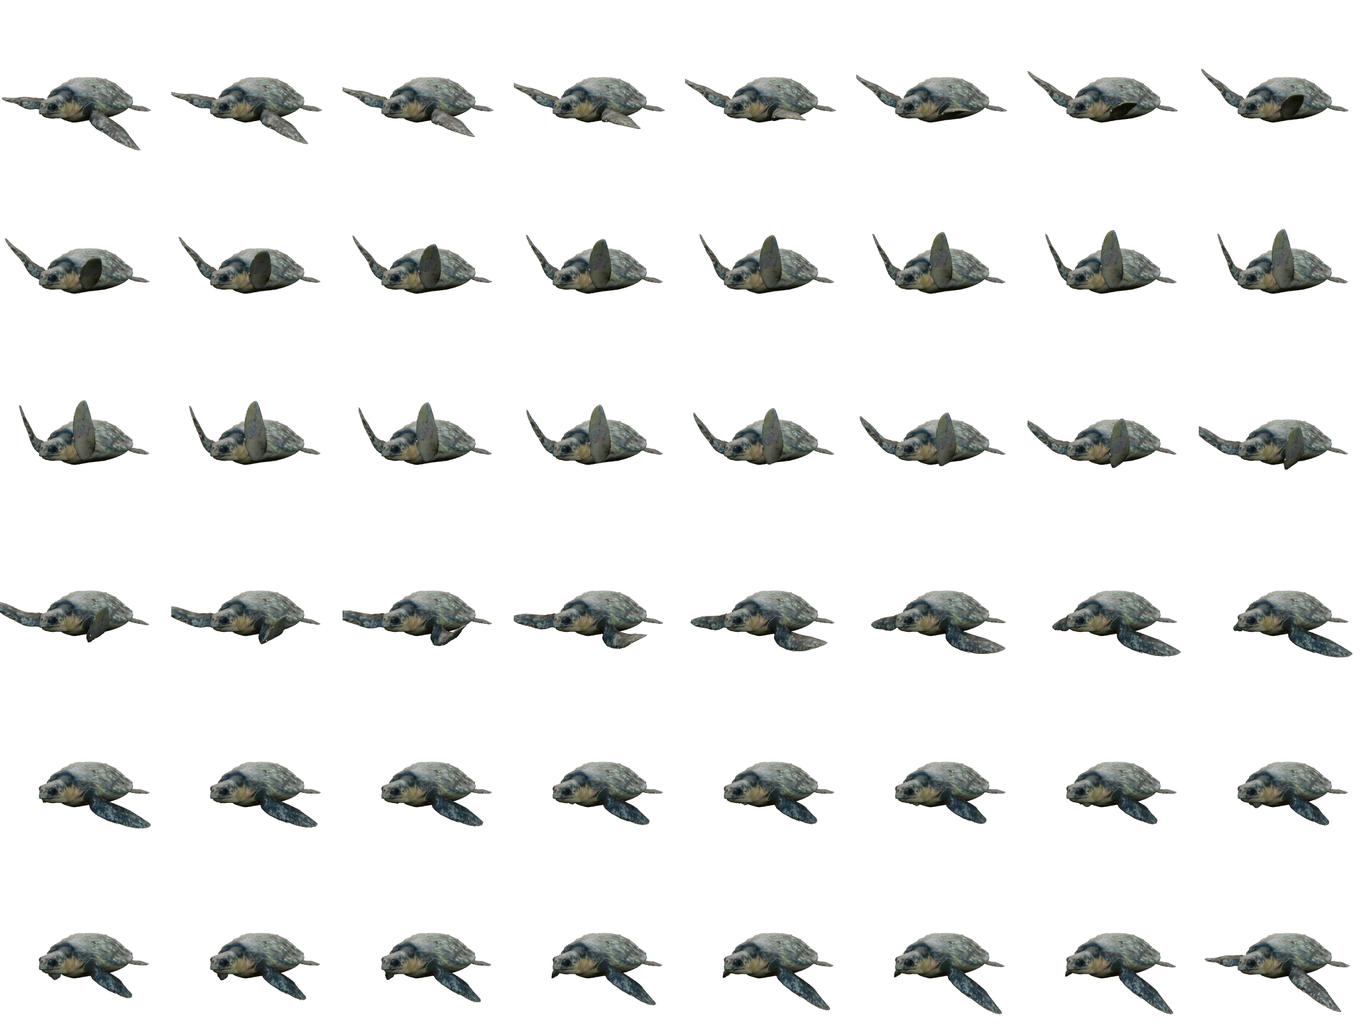
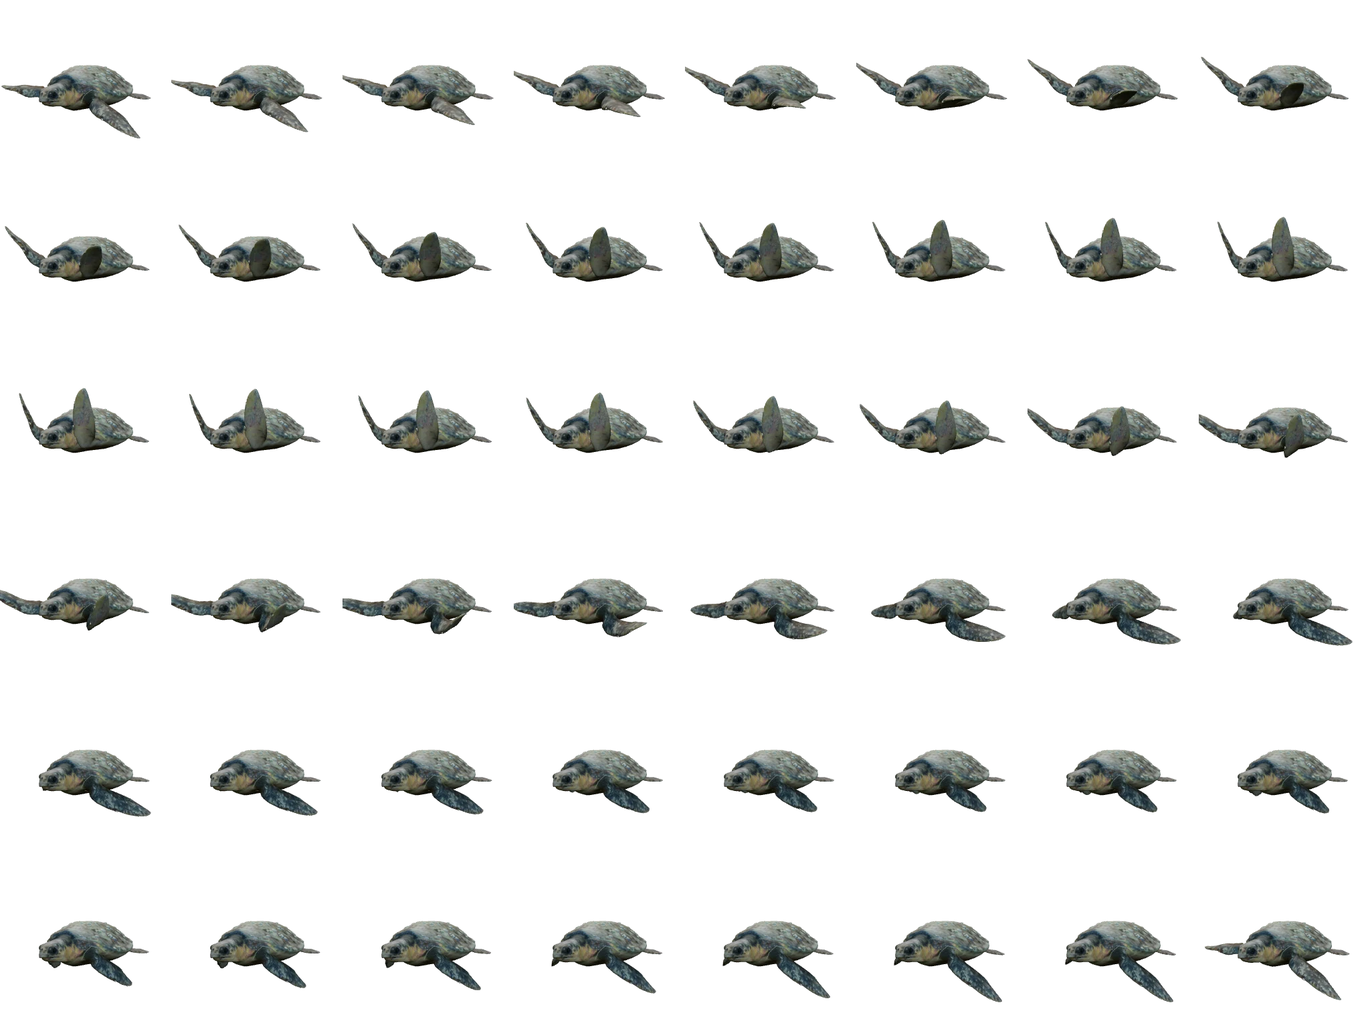
Add joystick, turtle turn action and ocean destination links

diff --git a/src/free-roam.js b/src/free-roam.js
@@ -1,3 +1,5 @@
+import {createJoystick} from './joystick.js';
+import {TURTLE_TURN_DURATION} from './turtle-turn.js';
 import * as T from 'three';
 import {OrbitControls} from 'three/addons/controls/OrbitControls.js';
 import {createRoamWorld,moveWithinMap} from './roam-world.js';
@@ -5,7 +7,11 @@ import {createTrexModel} from './creatures/model.js';
 import {createTrexActions,ACTIONS} from './creatures/actions.js';
 import {loadMarine} from './marine.js';
 export function createFreeRoam(host){
- host.innerHTML='<div class="roam-canvas"></div><p class="roam-hint">WASD / phím mũi tên · Giữ nút để di chuyển</p><div class="roam-pad" aria-label="Điều khiển di chuyển">'+[['up','↑','Tiến'],['left','←','Sang trái'],['down','↓','Lùi'],['right','→','Sang phải']].map(([key,icon,label])=>'<button data-direction="'+key+'" aria-label="'+label+'">'+icon+'</button>').join('')+'</div><div class="roam-status" role="status">Đang chuẩn bị vùng khám phá…</div>';
+ host.innerHTML='<div class="roam-canvas"></div><div class="roam-joystick"></div><div class="roam-actions"><button class="roam-action" aria-label="Thực hiện hành động"><span class="roam-action-icon" aria-hidden="true"></span><small></small><kbd>1</kbd></button></div><div class="roam-status" role="status">Đang chuẩn bị vùng khám phá…</div>';
+ const joystick=createJoystick(host.querySelector('.roam-joystick')),actionButton=host.querySelector('.roam-action');let turnTime=-1;
+ function fireAction(){if(!active)return;if(id==='trex')jump();else if(turnTime<0){turnTime=0;actions.play('turn360');}}
+ actionButton.onclick=fireAction;
+
  const mount=host.querySelector('.roam-canvas'),status=host.querySelector('.roam-status');
  const renderer=new T.WebGLRenderer({antialias:true});renderer.setPixelRatio(Math.min(devicePixelRatio,1.5));renderer.toneMapping=T.ACESFilmicToneMapping;renderer.toneMappingExposure=1.1;mount.append(renderer.domElement);
  const scene=new T.Scene(),camera=new T.PerspectiveCamera(52,1,.1,180);let world,animal,actions,active=false,serial=0,id='',moving=false,frameId;
@@ -20,16 +26,16 @@ export function createFreeRoam(host){
 
  const shadowCanvas=document.createElement('canvas');shadowCanvas.width=128;shadowCanvas.height=128;const context=shadowCanvas.getContext('2d'),gradient=context.createRadialGradient(64,64,8,64,64,64);gradient.addColorStop(0,'rgba(10,25,22,.4)');gradient.addColorStop(1,'rgba(10,25,22,0)');context.fillStyle=gradient;context.fillRect(0,0,128,128);const shadowTexture=new T.CanvasTexture(shadowCanvas),shadow=new T.Mesh(new T.PlaneGeometry(8,8),new T.MeshBasicMaterial({map:shadowTexture,transparent:true,depthWrite:false}));shadow.rotation.x=-Math.PI/2;scene.add(shadow);const target=new T.Vector3(),offset=new T.Vector3(0,8,14),keys=new Set(),pointers=new Map();let velocity=new T.Vector2();
  scene.add(new T.HemisphereLight(0xe4fffa,0x435b38,2.6));const sun=new T.DirectionalLight(0xffedce,3);sun.position.set(15,30,12);scene.add(sun);
- function clear(){keys.clear();pointers.clear();velocity.set(0,0);host.querySelectorAll('[data-direction]').forEach(b=>b.removeAttribute('data-held'));}
+ function clear(){joystick.reset();keys.clear();pointers.clear();velocity.set(0,0);host.querySelectorAll('[data-direction]').forEach(b=>b.removeAttribute('data-held'));}
  const codes={KeyW:'up',ArrowUp:'up',KeyS:'down',ArrowDown:'down',KeyA:'left',ArrowLeft:'left',KeyD:'right',ArrowRight:'right'};
- function keydown(e){if(!active||e.target.closest?.('input,textarea,select'))return;if(e.code==='Digit1'||e.code==='Numpad1'){e.preventDefault();if(!e.repeat)jump();return;}if(!codes[e.code])return;e.preventDefault();keys.add(e.code);}
+ function keydown(e){if(!active||e.target.closest?.('input,textarea,select'))return;if(e.code==='Digit1'||e.code==='Numpad1'){e.preventDefault();if(!e.repeat)fireAction();return;}if(!codes[e.code])return;e.preventDefault();keys.add(e.code);}
  function keyup(e){keys.delete(e.code);}
  addEventListener('keydown',keydown);addEventListener('keyup',keyup);addEventListener('blur',clear);const visibility=()=>{if(document.hidden)clear();};document.addEventListener('visibilitychange',visibility);
  for(const button of host.querySelectorAll('[data-direction]')){button.onpointerdown=e=>{e.preventDefault();button.setPointerCapture(e.pointerId);pointers.set(e.pointerId,button.dataset.direction);button.dataset.held='true';};const release=e=>{pointers.delete(e.pointerId);button.removeAttribute('data-held');};button.onpointerup=release;button.onpointercancel=release;button.onlostpointercapture=release;}
  function disposeModel(model){const geometries=new Set(),materials=new Set(),textures=new Set();model.traverse(n=>{if(n.geometry)geometries.add(n.geometry);for(const m of (Array.isArray(n.material)?n.material:[n.material]).filter(Boolean)){materials.add(m);Object.values(m).forEach(v=>{if(v?.isTexture)textures.add(v);});}});geometries.forEach(g=>g.dispose());materials.forEach(m=>m.dispose());textures.forEach(t=>t.dispose());}
  function disposeAnimal(){actions?.dispose();actions=null;if(animal){actor.remove(animal);disposeModel(animal);animal=null;}}
 
- async function load(next){const token=++serial;clear();active=false;status.hidden=false;status.textContent='Đang chuẩn bị vùng khám phá…';restorePose();disposeAnimal();actor.position.set(0,0,0);actor.rotation.set(0,0,0);actor.scale.setScalar(1);actor.updateMatrixWorld(true);jumpHeight=jumpVelocity=0;controls.enabled=false;world?.dispose();if(world)scene.remove(world.group);const sea=next==='loggerhead';world=createRoamWorld(sea);scene.add(world.group);scene.background=new T.Color(sea?0x176a86:0xa5cbd0);scene.fog=new T.Fog(sea?0x176a86:0xa5cbd0,sea?22:48,sea?88:135);id=next;host.querySelector('.roam-hint').textContent='WASD / ↑↓←→: di chuyển'+(sea?'':' · 1: nhảy')+' · Kéo: xoay · Cuộn: zoom · Chuột phải: dịch';
+ async function load(next){const token=++serial;clear();active=false;status.hidden=false;status.textContent='Đang chuẩn bị vùng khám phá…';restorePose();disposeAnimal();actor.position.set(0,0,0);actor.rotation.set(0,0,0);actor.scale.setScalar(1);actor.updateMatrixWorld(true);jumpHeight=jumpVelocity=0;controls.enabled=false;world?.dispose();if(world)scene.remove(world.group);const sea=next==='loggerhead';world=createRoamWorld(sea);scene.add(world.group);scene.background=new T.Color(sea?0x176a86:0xa5cbd0);scene.fog=new T.Fog(sea?0x176a86:0xa5cbd0,sea?22:48,sea?88:135);id=next;turnTime=-1;actionButton.querySelector('.roam-action-icon').textContent=sea?'↻':'↟';actionButton.querySelector('small').textContent=sea?'Xoay một vòng':'Nhảy';actionButton.setAttribute('aria-label',sea?'Xoay một vòng':'Nhảy');
  let result;
  try{if(sea)result=await loadMarine(next);else{const response=await fetch('/assets/trex.json');if(!response.ok)throw Error('model');result={model:await createTrexModel({data:await response.json(),diffuse:'/assets/diffuse.jpeg',normal:'/assets/normal.jpeg'})};}
  if(token!==serial){result.createActions?.().dispose();disposeModel(result.model);return;}
@@ -38,14 +44,15 @@ export function createFreeRoam(host){
  }catch(e){if(token!==serial)return;status.innerHTML='<button class="round" aria-label="Thử tải lại">↻</button>';status.querySelector('button').onclick=()=>load(next);console.error(e);}}
  function resize(){const w=mount.clientWidth,h=mount.clientHeight;if(!w||!h)return;renderer.setSize(w,h);camera.aspect=w/h;camera.updateProjectionMatrix();}const observer=new ResizeObserver(resize);observer.observe(mount);
  let last=performance.now();function frame(now){frameId=requestAnimationFrame(frame);const dt=Math.min((now-last)/1000,.04);last=now;if(!active||document.hidden||document.body.classList.contains('orientation-blocked')){clear();return;}
- const held=new Set([...keys].map(k=>codes[k]).concat([...pointers.values()])),dx=Number(held.has('right'))-Number(held.has('left')),dz=Number(held.has('down'))-Number(held.has('up')),input=new T.Vector2(dx,dz);if(input.lengthSq()>1)input.normalize();velocity.lerp(input,1-Math.exp(-dt*10));const walking=velocity.length()>.04,sea=id==='loggerhead';
+ const held=new Set([...keys].map(k=>codes[k]).concat([...pointers.values()])),dx=Number(held.has('right'))-Number(held.has('left')),dz=Number(held.has('down'))-Number(held.has('up')),input=new T.Vector2(dx+joystick.value.x,dz+joystick.value.y);if(input.lengthSq()>1)input.normalize();velocity.lerp(input,1-Math.exp(-dt*10));const walking=velocity.length()>.04,sea=id==='loggerhead';
  restorePose();
  if(walking!==moving){moving=walking;if(!sea)actions.play(moving?'walk':'idle');}
- actions.setSpeed(sea?(moving?1:.3):moving?Math.max(.3,velocity.length()):1);actions.update(dt);
+ actions.setSpeed(sea?(turnTime>=0?1:moving?1:.3):moving?Math.max(.3,velocity.length()):1);actions.update(dt);
+ if(sea&&turnTime>=0){turnTime+=dt;if(turnTime>=TURTLE_TURN_DURATION){actions.play('clip0');turnTime=-1;}}actionButton.disabled=id==='trex'?jumpHeight>0:turnTime>=0;
  if(walking){const desired=Math.atan2(velocity.x,velocity.y)+(sea?Math.PI:0),delta=Math.atan2(Math.sin(desired-actor.rotation.y),Math.cos(desired-actor.rotation.y));actor.rotation.y+=delta*(1-Math.exp(-dt*8));moveWithinMap(actor.position,velocity.x*dt*(sea?7.5:6.375),velocity.y*dt*(sea?7.5:6.375),world.obstacles,sea?1.4:2);}
  if(!sea){if(jumpVelocity!==0||jumpHeight>0){jumpHeight+=jumpVelocity*dt-7*dt*dt;jumpVelocity-=14*dt;if(jumpHeight<=0){jumpHeight=0;jumpVelocity=0;}}if(jumpHeight>0)tuckLegs();groundAnimal();}
  shadow.material.opacity=1/(1+jumpHeight*.4);
  shadow.position.set(actor.position.x,sea?-2.97:.03,actor.position.z);shadow.scale.set(sea?.65:1,sea?.65:1,1);followDelta.set(actor.position.x-followPosition.x,0,actor.position.z-followPosition.z);camera.position.add(followDelta);controls.target.add(followDelta);followPosition.copy(actor.position);controls.update();renderer.render(scene,camera);
  }frameId=requestAnimationFrame(frame);
- return {load,setActive(value){active=value&&!!animal;controls.enabled=active;clear();if(!value){serial++;status.hidden=true;}},get state(){return {id,active,moving,jumpHeight,groundY:animal?new T.Box3().setFromObject(animal,true).min.y:groundY,position:actor.position.toArray(),camera:camera.position.toArray(),obstacles:world?.obstacles};},dispose(){serial++;cancelAnimationFrame(frameId);controls.dispose();observer.disconnect();clear();disposeAnimal();world?.dispose();shadow.geometry.dispose();shadow.material.dispose();shadowTexture.dispose();renderer.dispose();removeEventListener('keydown',keydown);removeEventListener('keyup',keyup);removeEventListener('blur',clear);document.removeEventListener('visibilitychange',visibility);}};
+ return {load,setActive(value){active=value&&!!animal;controls.enabled=active;clear();if(!value){serial++;status.hidden=true;}},get state(){return {id,active,moving,turnTime,action:actions?.state.id,jumpHeight,groundY:animal?new T.Box3().setFromObject(animal,true).min.y:groundY,position:actor.position.toArray(),camera:camera.position.toArray(),obstacles:world?.obstacles};},dispose(){serial++;cancelAnimationFrame(frameId);controls.dispose();observer.disconnect();clear();disposeAnimal();world?.dispose();shadow.geometry.dispose();shadow.material.dispose();shadowTexture.dispose();renderer.dispose();removeEventListener('keydown',keydown);removeEventListener('keyup',keyup);removeEventListener('blur',clear);document.removeEventListener('visibilitychange',visibility);}};
 }

diff --git a/src/marine.js b/src/marine.js
@@ -1,3 +1,4 @@
+import {createTurtleTurnActions} from './turtle-turn.js';
 import * as T from 'three';
 import {GLTFLoader} from 'three/addons/loaders/GLTFLoader.js';
 import {FBXLoader} from 'three/addons/loaders/FBXLoader.js';
@@ -33,6 +34,7 @@ export async function loadMarine(id){
  const root=new T.Group(),visual=new T.Group();root.add(visual);visual.add(source);visual.scale.setScalar(scale);visual.position.set(-center.x*scale,-box.min.y*scale+(spec.bottom?0:1),-center.z*scale);
  mixer.stopAllAction();const animations={},definitions={};clips.forEach((clip,i)=>{const k='clip'+i;animations[k]=clip;definitions[k]=[k,(id==='slug'?(/move/i.test(clip.name)?'Di chuyển':/pose/i.test(clip.name)?'Tư thế gốc':'Nghỉ'):'Bơi')+(clips.length>1?' '+(i+1):''), 'Animation gốc',true];});
  if(!clips.length){const k='drift';animations[k]=new T.AnimationClip(k,6,[]);definitions[k]=[k,spec.bottom?'Quan sát':'Lướt trong nước','Chuyển động trình diễn; model chưa có animation khớp.',true];}
+ if(id==='loggerhead')definitions.turn360=[null,'Xoay một vòng','Nhìn dẫn hướng, vây tạo lực xoay, hãm và trở lại bơi.',true];
  root.userData.sculptRuntime={source,animations,nodes:{},meshes:{}};
- return {model:root,definitions,createActions(){let key=Object.keys(definitions)[0],time=0;const state={paused:true,speed:1,id:key};function play(k){if(!definitions[k])return false;mixer.stopAllAction();key=k;time=0;root.position.set(0,0,0);root.rotation.set(0,0,0);mixer.clipAction(animations[k]).reset().setLoop(T.LoopRepeat,Infinity).play();mixer.update(.001);source.updateMatrixWorld(true);source.traverse(o=>o.skeleton?.update());state.paused=false;state.id=k;return true;}return {state,mixer,play,update(dt){if(state.paused)return;time+=dt*state.speed;mixer.update(dt*state.speed);if(!clips.length&&!spec.bottom){root.position.y=.08*Math.sin(time*1.4);root.rotation.y=.06*Math.sin(time*.7);}},pause(){state.paused=!state.paused;},setSpeed(s){state.speed=s;},get progress(){return time/animations[key].duration%1;},dispose(){mixer.stopAllAction();}};}};
+ return {model:root,definitions,createActions(){let key=Object.keys(definitions)[0],time=0;const state={paused:true,speed:1,id:key};function play(k){if(!definitions[k])return false;mixer.stopAllAction();key=k;time=0;root.position.set(0,0,0);root.rotation.set(0,0,0);mixer.clipAction(animations[k]).reset().setLoop(T.LoopRepeat,Infinity).play();mixer.update(.001);source.updateMatrixWorld(true);source.traverse(o=>o.skeleton?.update());state.paused=false;state.id=k;return true;}const baseActions={state,mixer,play,update(dt){if(state.paused)return;time+=dt*state.speed;mixer.update(dt*state.speed);if(!clips.length&&!spec.bottom){root.position.y=.08*Math.sin(time*1.4);root.rotation.y=.06*Math.sin(time*.7);}},pause(){state.paused=!state.paused;},setSpeed(s){state.speed=s;},get progress(){return time/animations[key].duration%1;},dispose(){mixer.stopAllAction();}};return id==='loggerhead'?createTurtleTurnActions(baseActions,root):baseActions;}};
 }

diff --git a/src/turtle-turn.js b/src/turtle-turn.js
@@ -1,0 +1,20 @@
+import {Quaternion,Vector3} from 'three';
+export const TURTLE_TURN_DURATION=4.2;
+const smooth=x=>{x=Math.max(0,Math.min(1,x));return x*x*x*(x*(x*6-15)+10);};
+const pulse=(t,a,b)=>t<=a||t>=b?0:Math.sin(Math.PI*(t-a)/(b-a))**2;
+export function createTurtleTurnActions(base,root){
+ const bones={};root.traverse(n=>{if(n.isBone)bones[n.name]=n;});
+ let turning=false,time=0,pose=[],origin=null,entry=[];
+ const axis=new Vector3(),parentQ=new Quaternion(),rootQ=new Quaternion(),q=new Quaternion();
+ function restore(){for(const [bone,rotation]of pose)bone.quaternion.copy(rotation);pose=[];if(origin){root.quaternion.copy(origin);origin=null;}}
+ function rotate(name,x,y,z){const bone=bones[name];if(!bone)return;pose.push([bone,bone.quaternion.clone()]);const angle=Math.hypot(x,y,z);if(!angle)return;root.getWorldQuaternion(rootQ);bone.parent.getWorldQuaternion(parentQ);axis.set(x,y,z).divideScalar(angle).applyQuaternion(rootQ).applyQuaternion(parentQ.invert());q.setFromAxisAngle(axis,angle);bone.quaternion.premultiply(q);bone.updateWorldMatrix(false,true);}
+ function apply(t){
+  origin=root.quaternion.clone();const envelope=smooth(t/.45)*(1-smooth((t-3.35)/.85)),drive=pulse(t,.45,1.55)+pulse(t,1.65,2.85),brake=pulse(t,3,3.9);
+  root.rotateY(2*Math.PI*smooth((t-.4)/3.35));root.rotateZ(.11*envelope);root.updateWorldMatrix(true,true);
+  rotate('head002',-.035*envelope,.24*pulse(t,0,3.6),0);rotate('head001',0,.09*pulse(t,.15,3.65),0);
+  rotate('flipper-left001',0,-.22*drive,.24*drive-.10*brake);rotate('flipper-left002',0,.09*drive,.10*pulse(t,.65,3));
+  rotate('flipper-right001',0,.12*drive,-.12*drive+.18*brake);rotate('flipper-right002',0,-.05*drive,-.08*pulse(t,.85,3.2));
+  rotate('hind-left001',0,.16*envelope,.09*brake);rotate('hind-right001',0,.13*envelope,-.12*brake);rotate('tail001',0,.10*pulse(t,.6,3.85),0);
+ }
+ return {...base,play(key){restore();turning=key==='turn360';entry=turning?Object.values(bones).map(b=>[b,b.quaternion.clone()]):[];time=0;return base.play(turning?'clip0':key);},get state(){return {...base.state,id:turning?'turn360':base.state.id};},update(dt){if(base.state.paused)return;restore();base.update(turning?dt*(3.5/TURTLE_TURN_DURATION):dt);if(turning){time=(time+Math.min(dt,.05)*base.state.speed)%TURTLE_TURN_DURATION;if(entry.length){const blend=smooth(time/.35);for(const [bone,rotation]of entry)bone.quaternion.slerpQuaternions(rotation,bone.quaternion.clone(),blend);if(blend===1)entry=[];}apply(time);}},get progress(){return turning?time/TURTLE_TURN_DURATION:base.progress;},dispose(){restore();base.dispose();}};
+}

diff --git a/src/ocean-journey.js b/src/ocean-journey.js
@@ -2,7 +2,10 @@ export const oceanDestinations={loggerhead:[10,42],squid:[21,70],seal:[33,28],tu
 let savedLeft=0,cleanup=()=>{};
 export function stopOceanJourney(){cleanup();cleanup=()=>{};}
 export function oceanJourneyMarkup(ids,preview,label){
- return `<div class="ocean-journey"><img class="journey-map-image" src="/assets/worlds/ocean-destinations.png" alt="Bản đồ các vùng khám phá: cỏ biển, bãi cát, đảo đá, rạn san hô và biển sâu" draggable="false">${ids.map(id=>{const [x,y]=oceanDestinations[id];return `<button class="map-pin journey-pin ${id}" style="--journey-x:${x}%;--journey-y:${y}%" data-species="${id}" aria-label="${label(id)}"><span class="pin-orb">${preview(id)}</span></button>`;}).join('')}</div>`;
+ const pts=ids.map(id=>oceanDestinations[id]);const path=pts.reduce((d,p,i)=>i?d+' C'+((pts[i-1][0]+p[0])/2)+','+pts[i-1][1]+' '+((pts[i-1][0]+p[0])/2)+','+p[1]+' '+p[0]+','+p[1]:'M'+p[0]+','+p[1],'');
+ const links='<svg class="journey-trail" viewBox="0 0 100 100" preserveAspectRatio="none" aria-hidden="true"><path class="trail-shadow" d="'+path+'"/><path class="trail-light" d="'+path+'"/></svg>';
+
+ return `<div class="ocean-journey"><img class="journey-map-image" src="/assets/worlds/ocean-destinations.png" alt="Bản đồ các vùng khám phá: cỏ biển, bãi cát, đảo đá, rạn san hô và biển sâu" draggable="false">${links}${ids.map(id=>{const [x,y]=oceanDestinations[id];return `<button class="map-pin journey-pin ${id}" style="--journey-x:${x}%;--journey-y:${y}%" data-species="${id}" aria-label="${label(id)}"><span class="pin-orb">${preview(id)}</span></button>`;}).join('')}</div>`;
 }
 export function startOceanJourney(island){
  const nav=document.createElement('nav');nav.className='journey-navigation';nav.setAttribute('aria-label','Di chuyển bản đồ');nav.innerHTML='<button class="round" aria-label="Khám phá phía trước">‹</button><button class="round" aria-label="Khám phá tiếp">›</button>';island.parentElement.append(nav);

diff --git a/src/app.js b/src/app.js
@@ -37,10 +37,11 @@ function showMap(){stopOceanJourney();ticket++;loading=false;modelLoading.end();
 }
 function setupAnimal(id){selected=id;world=group(id);document.body.dataset.species=id;document.body.dataset.marine=String(!!marine[id]);$('experience').style.setProperty('--environment','url("'+environment(id)+'")');$('hero-image').hidden=true;$('hero-backdrop').style.backgroundImage='url("'+environment(id)+'")';
  $('topic-hub').innerHTML=(speciesKnowledge[id]?speciesTopicButtons(id):marine[id]?oceanTopicButtons():topicButtons())+'<button class="action-orb" data-enter-3d aria-label="Xem model 3D">'+previewMarkup(id,previewKey(id))+'<span class="orb-play">▶</span></button>';
+ $('topic-hub').querySelector('[data-topic=range]')?.remove();
  $('topic-hub').querySelector('[data-enter-3d]').onclick=()=>navigate('/animal/'+id+'/actions');
  $('topic-hub').querySelectorAll('[data-topic]').forEach(b=>{b.setAttribute('aria-disabled',String(!hasTopic(id,b.dataset.topic)));b.onclick=()=>hasTopic(id,b.dataset.topic)?navigate('/animal/'+id+'/topics/'+b.dataset.topic):notify('Mục này chưa có nội dung');});previews.refresh();
 }
-function showTopic(id,key='habitat'){++ticket;loading=false;modelLoading.end();setupAnimal(id);currentTopic=key;route('topic');
+function showTopic(id,key='habitat'){if(key==='range')key='habitat';++ticket;loading=false;modelLoading.end();setupAnimal(id);currentTopic=key;route('topic');
  if(hasTopic(id,key)){if(speciesKnowledge[id])speciesView.show(id,key);else if(marine[id])oceanKnowledge.show(id,key);else{$('knowledge-view').dataset.owner='dinosaur';knowledge.show(key);}}
  else{$('knowledge-view').hidden=true;}
  $('topic-hub').querySelectorAll('[data-topic]').forEach(b=>b.setAttribute('aria-pressed',String(b.dataset.topic===key)));

diff --git a/src/mobile.css b/src/mobile.css
@@ -228,3 +228,9 @@ body[data-screen=map] #island img{-webkit-user-drag:none}
  body[data-screen=home] .world-badge.available[data-world=dinosaurs] .action-sprite{transform:scale(1.12)!important}
  body[data-world=dinosaurs] .map-pin:not(.mosa):not(.ptero) .pin-orb .action-sprite{transform:scale(1.5)}
 }
+
+.roam-joystick{display:none;position:absolute;left:24px;bottom:24px;width:106px;height:106px;border:2px solid #e8f9f299;border-radius:50%;background:#143f4666;touch-action:none;z-index:5;user-select:none}
+.joystick-thumb{position:absolute;width:42px;height:42px;left:30px;top:30px;border-radius:50%;border:2px solid #fff9;background:#d4e8dfb0;box-shadow:0 3px 12px #002b3b66;pointer-events:none}
+.roam-actions{position:absolute;bottom:24px;right:80px;z-index:5;display:flex;gap:12px}.roam-action{position:relative;display:grid;place-items:center;gap:1px;min-width:78px;padding:8px 14px;border:1px solid #fff9;border-radius:22px;background:#17454acc;color:#fff;cursor:pointer;touch-action:manipulation}.roam-action-icon{font-size:32px;line-height:1}.roam-action small{font-size:11px}.roam-action kbd{position:absolute;top:-8px;right:-7px;border-radius:50%;background:#f3dd98;color:#243c38;width:24px;height:24px;display:grid;place-items:center}.roam-action:disabled{opacity:.6}
+@media(pointer:coarse){.roam-joystick{display:block}.roam-action kbd{display:none}.roam-actions{bottom:24px;right:76px}}
+@media(max-height:350px){.roam-joystick{bottom:10px;left:14px}.roam-actions{bottom:14px}}

diff --git a/src/joystick.js b/src/joystick.js
@@ -1,0 +1,9 @@
+export function createJoystick(host){
+ host.innerHTML='<span class="joystick-thumb"></span>';host.setAttribute('aria-label','Cần điều khiển di chuyển');const thumb=host.firstElementChild;const value={x:0,y:0};let pointer=null,center=null;
+ function reset(){pointer=null;value.x=value.y=0;thumb.style.transform='translate(0,0)';host.removeAttribute('data-held');}
+ function move(e){if(pointer!==e.pointerId)return;e.preventDefault();const dx=e.clientX-center.x,dy=e.clientY-center.y,d=Math.hypot(dx,dy),radius=34,factor=d>radius?radius/d:1;value.x=Math.abs(dx*factor)<3?0:dx*factor/radius;value.y=Math.abs(dy*factor)<3?0:dy*factor/radius;thumb.style.transform=`translate(${dx*factor}px,${dy*factor}px)`;}
+ // offsetX/Y are in local CSS coordinates, including in the rotated app iframe.
+ host.onpointerdown=e=>{if(pointer!==null)return;e.preventDefault();pointer=e.pointerId;center={x:e.clientX-e.offsetX+host.clientWidth/2,y:e.clientY-e.offsetY+host.clientHeight/2};host.setPointerCapture(pointer);host.dataset.held='true';move(e);};host.onpointermove=move;
+ host.onpointerup=host.onpointercancel=host.onlostpointercapture=e=>{if(e.pointerId===pointer)reset();};
+ return {value,reset};
+}

diff --git a/src/scene.js b/src/scene.js
@@ -57,7 +57,7 @@ export function createHabitat(host){
  async function captureAction(key,{resolution=256,frames=48,columns=8,closeup=false}={}){
   active=false;entrance.cancel();floor.visible=false;ring.visible=false;renderer.setPixelRatio(1);renderer.setSize(resolution,resolution);camera.aspect=1;camera.clearViewOffset();camera.updateProjectionMatrix();
   const animation=root.userData.sculptRuntime.animations[definitions[key]?.[0]];
-  const duration=key==='hunt'?10:key==='roarSweep'?ROAR_SWEEP_DURATION:CUSTOM[key]?.duration||animation?.duration||6;
+  const duration=key==='turn360'?4.2:key==='hunt'?10:key==='roarSweep'?ROAR_SWEEP_DURATION:CUSTOM[key]?.duration||animation?.duration||6;
   const step=duration/1.25/frames;
   function advance(){let left=step;while(left>0){const dt=Math.min(.025,left);actions.update(dt);left-=dt;}root.updateMatrixWorld(true);root.traverse(n=>n.skeleton?.update());}
   const box=new T.Box3();actions.mixer.stopAllAction();actions.play(key);

diff --git a/src/preview-framing.js b/src/preview-framing.js
@@ -92,9 +92,15 @@ export const previewBounds={
  ],
  "loggerhead-clip0": [
   0,
-  0.3359375,
+  0.265625,
   0.8984375,
-  0.92578125
+  0.85546875
+ ],
+ "loggerhead-turn360": [
+  0.0234375,
+  0.30078125,
+  0.96484375,
+  0.8359375
  ],
  "mosa-bankTurn": [
   0.07421875,
